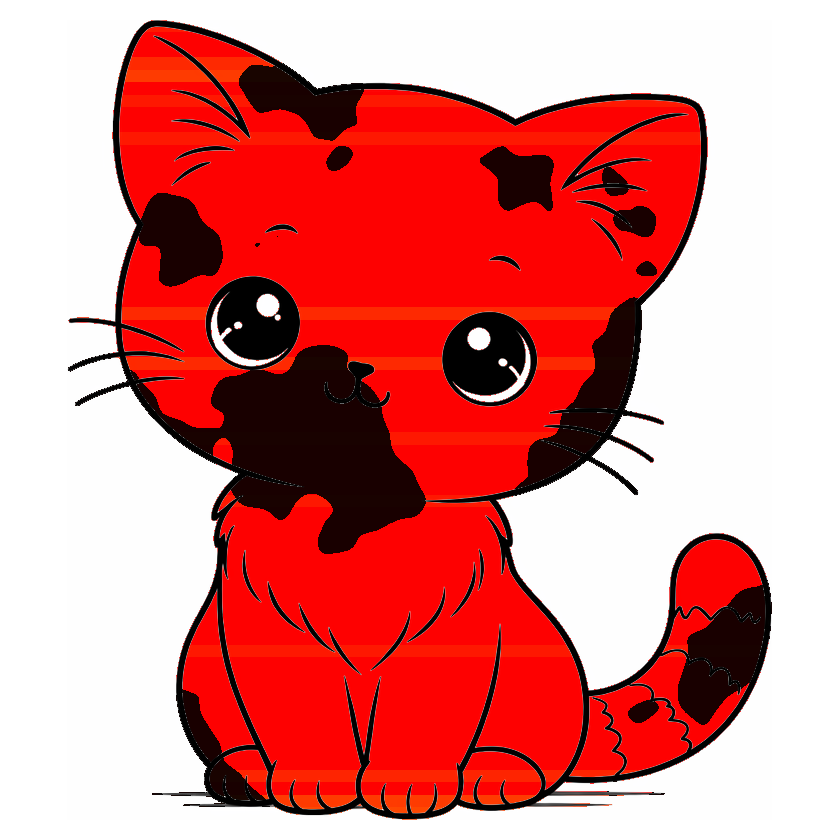
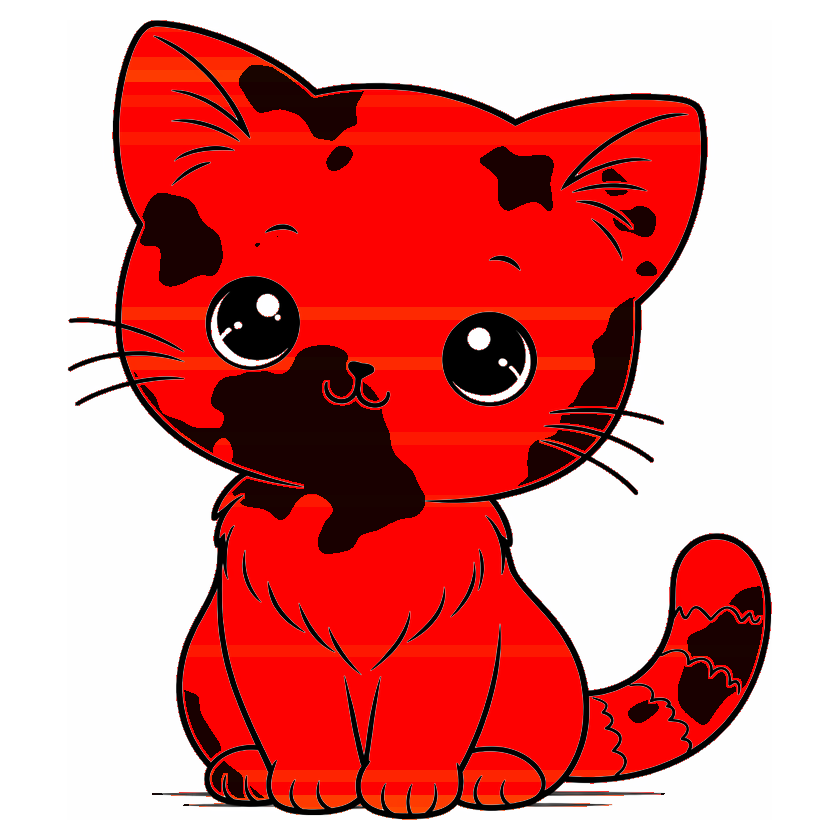
Re-enable detail buffer at 2px default
Now that the tinting threshold is fixed (120 instead of 200), the
detail buffer works as intended: a 2px ring of pure quantization color
around all outlines, keeping facial features readable against fur
markings.

https://claude.ai/code/session_01Y1zeYokrXQCEx2qjFvhX8B

diff --git a/excat.py b/excat.py
@@ -644,9 +644,9 @@ def main():
     parser.add_argument(
         "-d", "--detail-radius",
         type=int,
-        default=0,
+        default=2,
         metavar="PX",
-        help="Buffer zone around outlines where fur markings won't appear (default: 0, off)",
+        help="Buffer zone around outlines where fur markings won't appear (default: 2)",
     )
     args = parser.parse_args()
 
